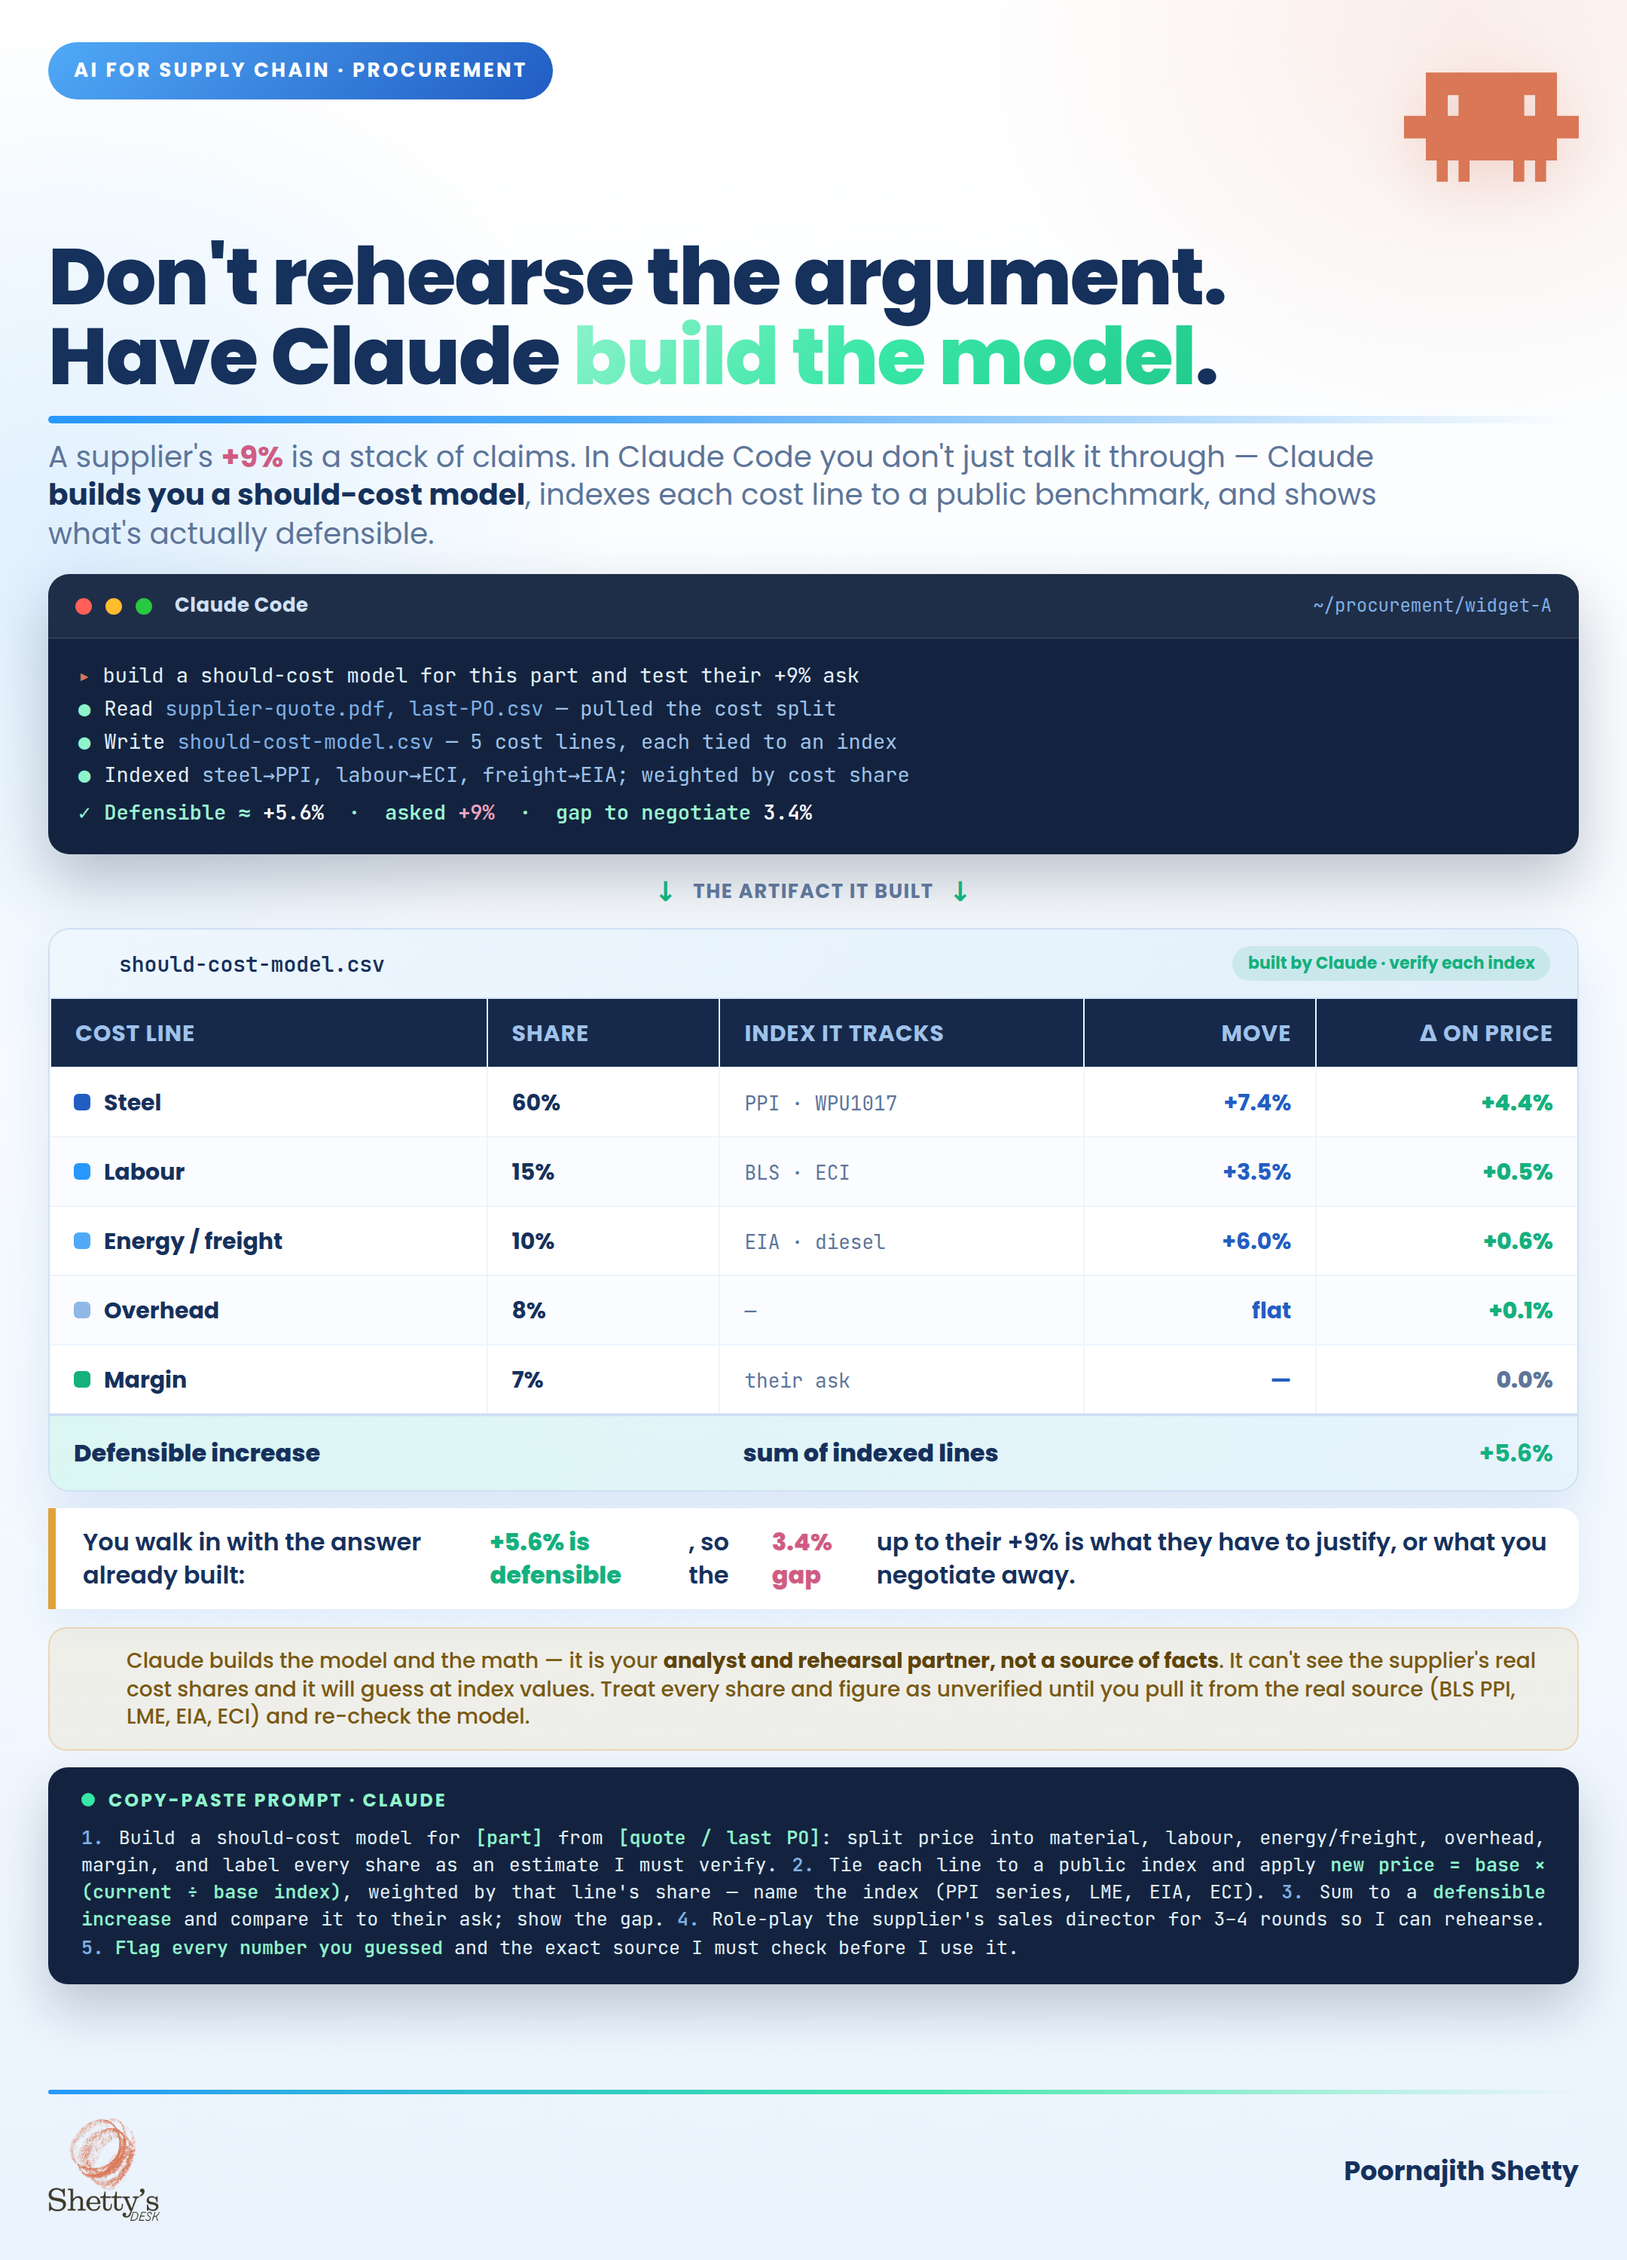
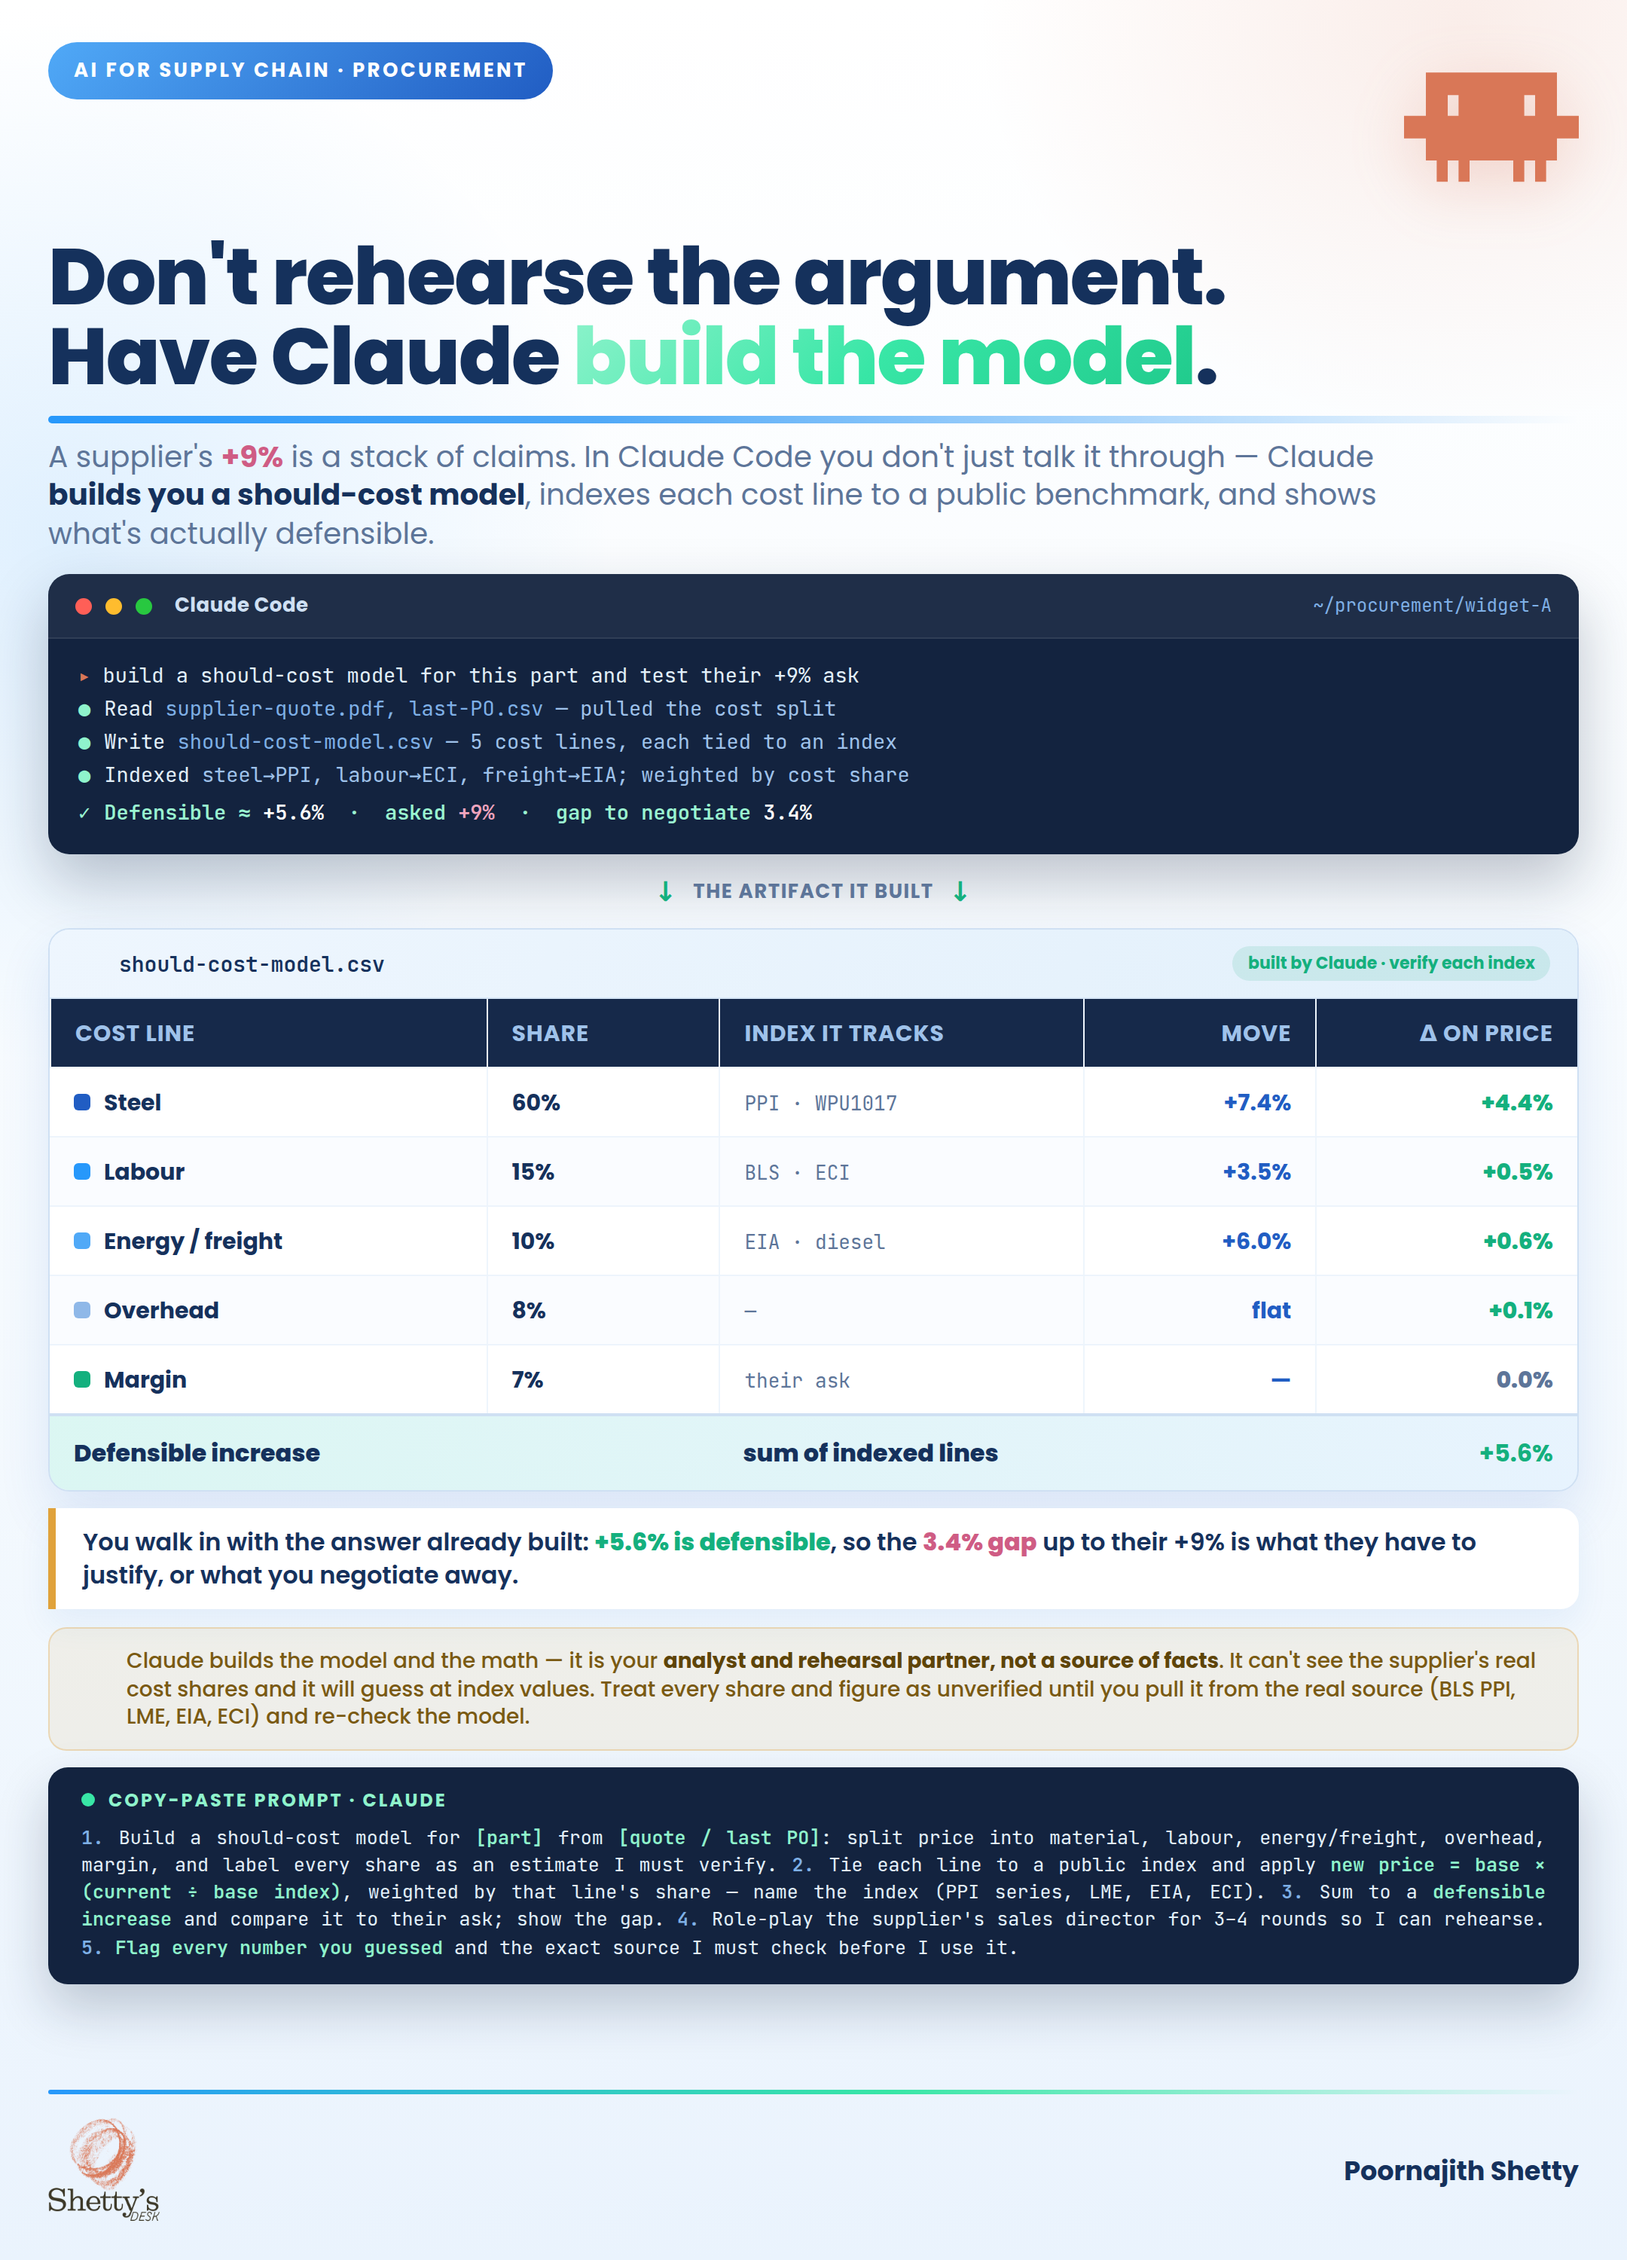
W26 AISC still fixes: scorecard spacing/legibility + Claude gap-note flow
Scorecard (ai05):
- Heading moved up and rows given room (less cramped); the sheet was being
  flex-shrunk in the card's flex column and, being overflow:hidden, silently
  clipped Supplier C's bottom (bar + QoQ). Protected it with flex:none and
  gave the card a little height — Supplier C's weighted total + QoQ now read.
- Rank-on-price / rank-on-QBR panel: content centered so the down-arrow
  visually connects the two ranking blocks instead of floating in a void.

Claude post (ai06):
- Gap-note was display:flex with a gap, so each bold/colored phrase became a
  separate flex item with large gaps between them. Set to block so the line
  flows as one readable sentence.

Animations intentionally left unchanged (pending further direction).

Claude-Session: https://claude.ai/code/session_01QHwTCVSbkRhv54hCup5HwM

Changed region(s): [[0.062, 0.682, 0.6824, 0.713], [0.8065, 0.682, 0.8685, 0.713]]

diff --git a/infographic-setup/renderer/templates/ai05-supplier-scorecard-3d.html b/infographic-setup/renderer/templates/ai05-supplier-scorecard-3d.html
@@ -13,23 +13,23 @@
   *{margin:0;padding:0;box-sizing:border-box}
   html,body{width:1080px}
   #card{
-    width:1080px;height:1540px;position:relative;overflow:hidden;
+    width:1080px;height:1580px;position:relative;overflow:hidden;
     font-family:"Poppins",system-ui,sans-serif;color:var(--ink);
     background:
       radial-gradient(ellipse 50% 30% at 90% 1%, rgba(56,230,166,.18) 0%, transparent 60%),
       radial-gradient(ellipse 56% 38% at 3% 22%, rgba(39,152,251,.15) 0%, transparent 58%),
       linear-gradient(180deg,#FFFFFF 0%,#F4FAFE 56%,#E8F1FC 100%);
-    padding:28px 32px 22px;display:flex;flex-direction:column;
+    padding:20px 32px 22px;display:flex;flex-direction:column;
   }
   /* ---- title ---- */
   .top{display:flex;justify-content:space-between;align-items:flex-start}
   .kick{font-size:14px;font-weight:700;letter-spacing:.16em;text-transform:uppercase;color:var(--azure)}
   .toolmark>img{width:122px;height:122px;filter:drop-shadow(0 10px 22px rgba(33,93,195,.24));margin-top:-6px}
-  h1{font-size:58px;font-weight:800;line-height:.98;margin-top:6px;letter-spacing:-1.2px;color:var(--ink)}
+  h1{font-size:58px;font-weight:800;line-height:.98;margin-top:2px;letter-spacing:-1.2px;color:var(--ink)}
   h1 .g{background:var(--eco-grad);-webkit-background-clip:text;background-clip:text;color:transparent}
   .sub{font-size:19.5px;font-weight:400;color:var(--muted);margin-top:10px;max-width:940px;line-height:1.3}
   /* ---- stat band ---- */
-  .band{margin-top:14px;background:linear-gradient(120deg,#16294a,#1d3d74);border-radius:14px;
+  .band{margin-top:20px;background:linear-gradient(120deg,#16294a,#1d3d74);border-radius:14px;
     padding:13px 22px;display:flex;align-items:center;gap:18px;box-shadow:0 16px 34px rgba(21,49,92,.26)}
   .kpi{display:flex;flex-direction:column}
   .kpi .n{font-size:27px;font-weight:800;color:#fff;line-height:1}
@@ -42,7 +42,7 @@
   .legend .sc i{width:24px;height:20px;border-radius:5px;display:flex;align-items:center;justify-content:center;font-size:11px;font-weight:800;color:#fff}
 
   /* ---- scorecard sheet (the hero artifact) ---- */
-  .sheet{margin-top:13px;border:1px solid #cfe0f3;border-radius:13px;overflow:hidden;
+  .sheet{flex:none;margin-top:13px;border:1px solid #cfe0f3;border-radius:13px;overflow:hidden;
     box-shadow:0 18px 40px rgba(33,93,195,.13)}
   .srow{display:grid;grid-template-columns:288px repeat(5,1fr) 172px}
   .shead{background:linear-gradient(120deg,#16294a,#1d3d74)}
@@ -58,7 +58,7 @@
   /* body rows */
   .brow{background:#fff;border-top:1px solid #e6f0fb}
   .brow.win{background:linear-gradient(90deg,rgba(56,230,166,.10),rgba(56,230,166,.03) 60%,#fff)}
-  .cell{padding:0 8px;display:flex;align-items:center;justify-content:center;border-left:1px solid #eef5fc;min-height:78px}
+  .cell{padding:6px 8px;display:flex;align-items:center;justify-content:center;border-left:1px solid #eef5fc;min-height:90px}
   /* supplier identity cell */
   .who2{border-left:0;justify-content:flex-start;gap:13px;padding-left:16px}
   .medal{flex:0 0 auto;width:46px;height:46px;border-radius:50%;display:flex;align-items:center;justify-content:center;
@@ -95,7 +95,7 @@
   .rleg span{display:flex;align-items:center;gap:6px;font-size:12px;font-weight:700;color:var(--ink)}
   .rleg i{width:13px;height:13px;border-radius:4px}
   /* flip */
-  .flip{justify-content:space-between;gap:10px}
+  .flip{justify-content:center;gap:22px}
   .flip .ord{display:flex;align-items:center;gap:8px}
   .flip .fl{font-size:11.5px;font-weight:700;letter-spacing:.05em;text-transform:uppercase}
   .flip .l .fl{color:var(--coral-deep)} .flip .r .fl{color:var(--deep)}
@@ -107,7 +107,7 @@
   .flip .cap{font-size:12.5px;font-weight:500;color:var(--muted);line-height:1.24}
   .flip .cap b{color:var(--eco-text);font-weight:700} .flip .cap .x{color:var(--coral-deep);font-weight:700}
   .flip .down-ar{align-self:center;font-size:22px;font-weight:800;color:var(--deep);line-height:.6}
-  .flip .seg{display:flex;flex-direction:column;gap:6px}
+  .flip .seg{display:flex;flex-direction:column;gap:7px;align-items:center;text-align:center}
 
   /* ---- verdict + honesty ---- */
   .verdict{margin-top:13px;background:#fff;border-left:5px solid var(--azure);border-radius:12px;

diff --git a/infographic-setup/renderer/templates/ai06-negotiation-table.html b/infographic-setup/renderer/templates/ai06-negotiation-table.html
@@ -73,7 +73,7 @@
   .atot .c{padding:12px 16px;font-size:16px;font-weight:800;color:var(--ink);border-left:0}
   .atot .c.r{text-align:right}
   .atot .big{color:var(--eco-text)} .atot .px{color:var(--coral-deep)}
-  .gapnote{display:flex;align-items:center;gap:11px;background:#fff;border-left:5px solid var(--amber);border-radius:0 12px 12px 0;
+  .gapnote{display:block;background:#fff;border-left:5px solid var(--amber);border-radius:0 12px 12px 0;
     margin-top:11px;padding:12px 18px;font-size:16px;font-weight:600;color:var(--ink);line-height:1.34;box-shadow:0 10px 22px rgba(33,93,195,.07)}
   .gapnote b{color:var(--eco-text);font-weight:800} .gapnote .x{color:var(--coral-deep);font-weight:800}
 
